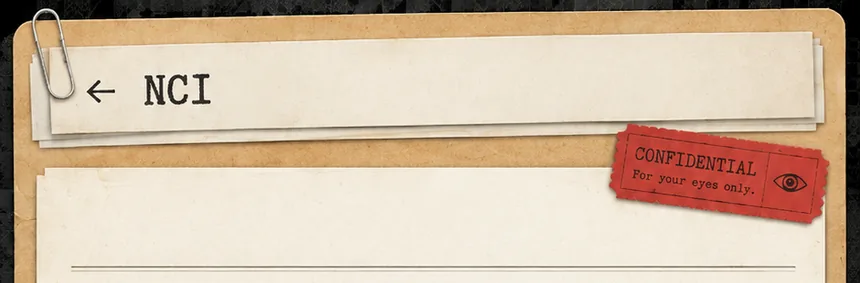
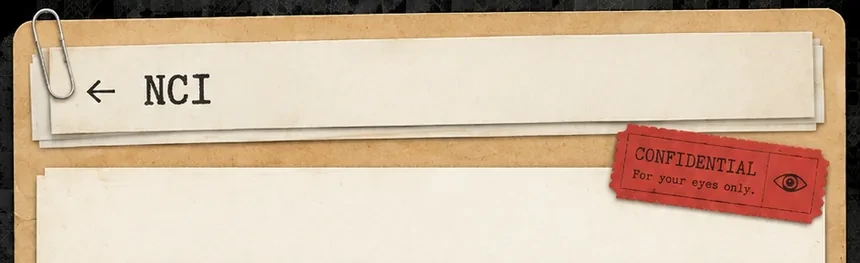
Fix FILE detail header/tile border mismatch, nudge report submit button up
- The CSS mask patch added previously to hide the stray divider line
  wasn't robust across viewport widths and could itself look like a
  seam. Fix the root cause instead: crop incidentlog_header.webp to
  end right before the baked-in divider, and drop the now-unneeded
  negative-margin "full bleed" hack on .detail-head/.detail-bottom-cap
  in favor of moving their parent's padding onto .detail-content —
  that negative margin was computed against the padded parent width
  instead of the full width, a ~1% mismatch that was part of what
  made the border look inconsistent between the header and the tile.
- #s8 .report-submit-btn: add bottom margin so it's not crammed
  against the footer/phone button below it.

diff --git a/index.html b/index.html
@@ -663,17 +663,13 @@ body{font-family:'Share Tech Mono',monospace;background:#0a0a0a;color:#c8c8c0;mi
   background-repeat:repeat-y;
   background-position:top center;
   background-size:100% auto;
-  padding:0 5% 0;position:relative;
+  padding:0;position:relative;
   overflow-y:visible;flex:none;
 }
 #s7 .detail-head{
-  display:block;margin:0 -5%;
-  aspect-ratio:941/310;position:relative;
+  display:block;
+  aspect-ratio:860/263;position:relative;
   background:url('assets/incidentlog_header.webp') center/100% 100% no-repeat;
-}
-#s7 .detail-head::after{
-  content:'';position:absolute;left:5%;right:5%;top:93.5%;height:3.5%;
-  background:#f6efe1;
 }
 .s7-back-overlay{
   position:absolute;top:0;left:0;width:24%;height:100%;
@@ -681,13 +677,13 @@ body{font-family:'Share Tech Mono',monospace;background:#0a0a0a;color:#c8c8c0;mi
 }
 #s7 .detail-num-badge{display:none;}
 #s7 .detail-title{
-  position:absolute;left:5%;right:14%;top:70%;float:none;
+  position:absolute;left:5%;right:14%;top:75.3%;float:none;
   font-family:'Noto Sans KR',sans-serif;font-weight:900;font-size:20px;letter-spacing:0.2px;
   color:#2a1c10;margin:0;padding:0;border:none;line-height:1.25;
 }
-#s7 .detail-content{color:#3a2a1a;padding:16px 4% 20px;font-family:'Noto Sans KR',sans-serif;font-size:17px;font-weight:500;line-height:1.85;}
+#s7 .detail-content{color:#3a2a1a;padding:16px 8.6% 20px;font-family:'Noto Sans KR',sans-serif;font-size:17px;font-weight:500;line-height:1.85;}
 #s7 .detail-bottom-cap{
-  display:block;margin:0 -5%;
+  display:block;
   aspect-ratio:941/160;
   background:url('assets/incidentlog_bottom.webp') center/100% 100% no-repeat;
 }
@@ -807,7 +803,7 @@ body{font-family:'Share Tech Mono',monospace;background:#0a0a0a;color:#c8c8c0;mi
 #s8 .report-divider{background:linear-gradient(90deg,transparent,#c8b89a,transparent);}
 #s8 .report-submit-btn{
   display:block;background:url('assets/report_submit_btn.webp') center/100% 100% no-repeat;
-  border:none;color:transparent;aspect-ratio:860/191;height:auto;max-width:220px;margin:10px auto 0;
+  border:none;color:transparent;aspect-ratio:860/191;height:auto;max-width:220px;margin:10px auto 18px;
 }
 #s8 .report-footer{
   background:transparent;border-top:1px solid #d8c8a8;color:#8a7a5a;
